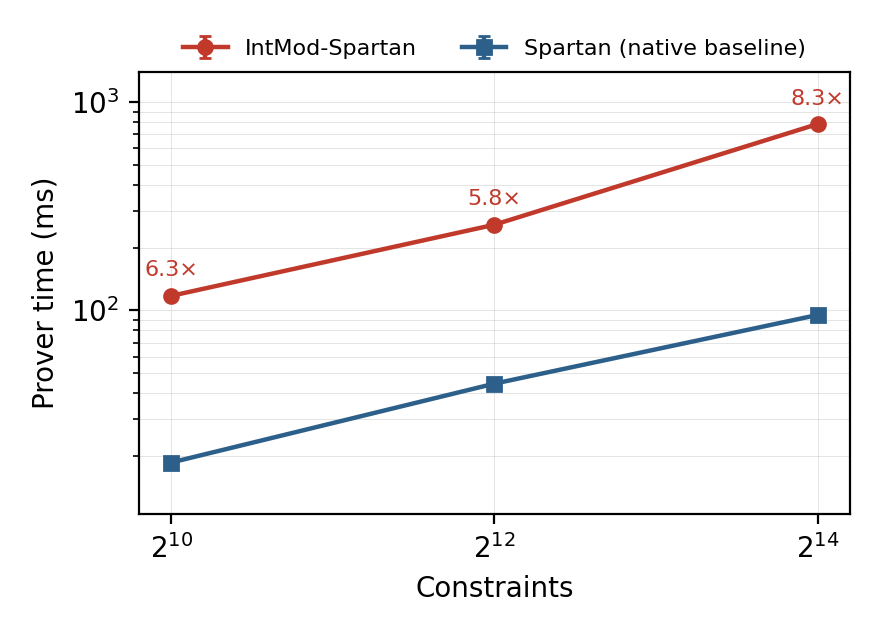
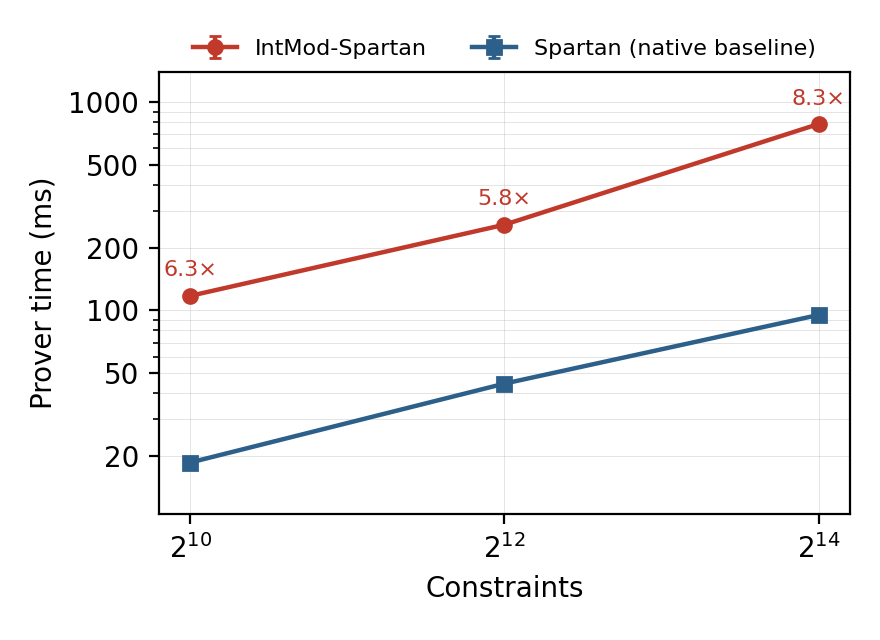
Fix plot axes: log only when data spans >=4x, linear from zero otherwise
The verify panel spans only 14-33 ms; on a log axis it rendered with
unreadable ticks (a single fixed tick in pgf, 2x10^1-style minors in
matplotlib). Axis policy in both backends: log with fixed-point 1-2-5
ticks when max/min >= 4 (prove panel, 43x), linear from zero with
10 ms ticks otherwise (verify panel). Regenerated all plot artifacts
and the combined msshape_figures.tex; compile-tested.

diff --git a/scripts/plot_msshape.py b/scripts/plot_msshape.py
@@ -21,6 +21,7 @@ import matplotlib
 
 matplotlib.use("Agg")
 import matplotlib.pyplot as plt
+import matplotlib.ticker as mticker
 
 ROOT = os.path.dirname(os.path.dirname(os.path.abspath(__file__)))
 CRITERION = os.path.join(ROOT, "target", "criterion")
@@ -105,7 +106,19 @@ def plot_phase(phase: str, title: str, outname: str) -> bool:
 
     ax.set_xlabel("Constraints")
     ax.set_ylabel(f"{title} time (ms)")
-    ax.set_yscale("log")
+    # Log only when the data genuinely spans decades; otherwise a linear
+    # axis from zero (a narrow log range yields unreadable ticks like
+    # 3x10^1).
+    all_y = [est[0] for pts in data.values() for est in pts.values()]
+    if max(all_y) / min(all_y) >= 4:
+        ax.set_yscale("log")
+        lo, hi = min(all_y) / 1.25, max(all_y) * 1.3
+        ticks = [c * 10**k for k in range(0, 7) for c in (1, 2, 5) if lo <= c * 10**k <= hi]
+        ax.yaxis.set_major_locator(mticker.FixedLocator(ticks))
+        ax.yaxis.set_major_formatter(mticker.ScalarFormatter())
+        ax.yaxis.set_minor_formatter(mticker.NullFormatter())
+    else:
+        ax.set_ylim(bottom=0)
     ax.set_xticks(SIZES)
     ax.set_xticklabels([f"$2^{{{lc}}}$" for lc in SIZES])
     ax.grid(True, which="both", linewidth=0.3, alpha=0.4)
@@ -203,13 +216,23 @@ def emit_pgfplots(phase: str, title: str, outname: str) -> bool:
     # narrow log ranges.
     all_y = [est[0] for pts in series.values() for _, est in pts]
     lo, hi = min(all_y) / 1.25, max(all_y) * 1.3
-    yticks = [
-        c * 10**k
-        for k in range(0, 7)
-        for c in (1, 2, 5)
-        if lo <= c * 10**k <= hi
-    ]
-    ytick_list = ",".join(str(t) for t in yticks)
+    if max(all_y) / min(all_y) >= 4:
+        yticks = [
+            c * 10**k
+            for k in range(0, 7)
+            for c in (1, 2, 5)
+            if lo <= c * 10**k <= hi
+        ]
+        ytick_list = ",".join(str(t) for t in yticks)
+        yaxis_opts = (
+            "    ymode=log,\n"
+            f"    ytick={{{ytick_list}}}, log ticks with fixed point,\n"
+        )
+    else:
+        step = 10
+        top = int(hi // step + 1) * step
+        lin_ticks = ",".join(str(t) for t in range(0, top + 1, step))
+        yaxis_opts = f"    ymin=0,\n    ytick={{{lin_ticks}}},\n"
 
     imod = dict(series["IntMod-Spartan"])
     base = dict(series["Spartan (native baseline)"])
@@ -235,9 +258,8 @@ def emit_pgfplots(phase: str, title: str, outname: str) -> bool:
         "\\begin{tikzpicture}\n"
         "  \\begin{axis}[\n"
         "    width=0.95\\linewidth, height=5.2cm,\n"
-        "    ymode=log,\n"
-        f"    xtick={{{ticks}}}, xticklabels={{{ticklabels}}},\n"
-        f"    ytick={{{ytick_list}}}, log ticks with fixed point,\n"
+        + yaxis_opts
+        + f"    xtick={{{ticks}}}, xticklabels={{{ticklabels}}},\n"
         "    xlabel={Constraints}, ylabel={" + title + " time (ms)},\n"
         "    grid=both, grid style={gray!20},\n"
         "    % legend above the axes so it never occludes either series\n"

diff --git a/docs/plots/msshape_figures.tex b/docs/plots/msshape_figures.tex
@@ -10,13 +10,13 @@
 \colorlet{ourscolor}{red!70!black}
 \colorlet{basecolor}{blue!50!black}
 
-% ---- Prover time (fig:nativeoverhead, prove panel) ----
+% ---- Prover time (fig:nativeoverhead, prove panel; log axis) ----
 \begin{tikzpicture}
   \begin{axis}[
     width=0.95\linewidth, height=5.2cm,
     ymode=log,
-    xtick={10,12,14}, xticklabels={$2^{10}$,$2^{12}$,$2^{14}$},
     ytick={20,50,100,200,500,1000}, log ticks with fixed point,
+    xtick={10,12,14}, xticklabels={$2^{10}$,$2^{12}$,$2^{14}$},
     xlabel={Constraints}, ylabel={Prover time (ms)},
     grid=both, grid style={gray!20},
     % legend above the axes so it never occludes either series
@@ -37,13 +37,13 @@
   \end{axis}
 \end{tikzpicture}
 
-% ---- Verifier time (verify panel) ----
+% ---- Verifier time (verify panel; linear axis) ----
 \begin{tikzpicture}
   \begin{axis}[
     width=0.95\linewidth, height=5.2cm,
-    ymode=log,
+    ymin=0,
+    ytick={0,10,20,30,40,50},
     xtick={10,12,14}, xticklabels={$2^{10}$,$2^{12}$,$2^{14}$},
-    ytick={20}, log ticks with fixed point,
     xlabel={Constraints}, ylabel={Verifier time (ms)},
     grid=both, grid style={gray!20},
     % legend above the axes so it never occludes either series

diff --git a/docs/plots/msshape_prove_pgf.tex b/docs/plots/msshape_prove_pgf.tex
@@ -6,8 +6,8 @@
   \begin{axis}[
     width=0.95\linewidth, height=5.2cm,
     ymode=log,
-    xtick={10,12,14}, xticklabels={$2^{10}$,$2^{12}$,$2^{14}$},
     ytick={20,50,100,200,500,1000}, log ticks with fixed point,
+    xtick={10,12,14}, xticklabels={$2^{10}$,$2^{12}$,$2^{14}$},
     xlabel={Constraints}, ylabel={Prover time (ms)},
     grid=both, grid style={gray!20},
     % legend above the axes so it never occludes either series

diff --git a/docs/plots/msshape_verify_pgf.tex b/docs/plots/msshape_verify_pgf.tex
@@ -5,9 +5,9 @@
 \begin{tikzpicture}
   \begin{axis}[
     width=0.95\linewidth, height=5.2cm,
-    ymode=log,
+    ymin=0,
+    ytick={0,10,20,30,40,50},
     xtick={10,12,14}, xticklabels={$2^{10}$,$2^{12}$,$2^{14}$},
-    ytick={20}, log ticks with fixed point,
     xlabel={Constraints}, ylabel={Verifier time (ms)},
     grid=both, grid style={gray!20},
     % legend above the axes so it never occludes either series
